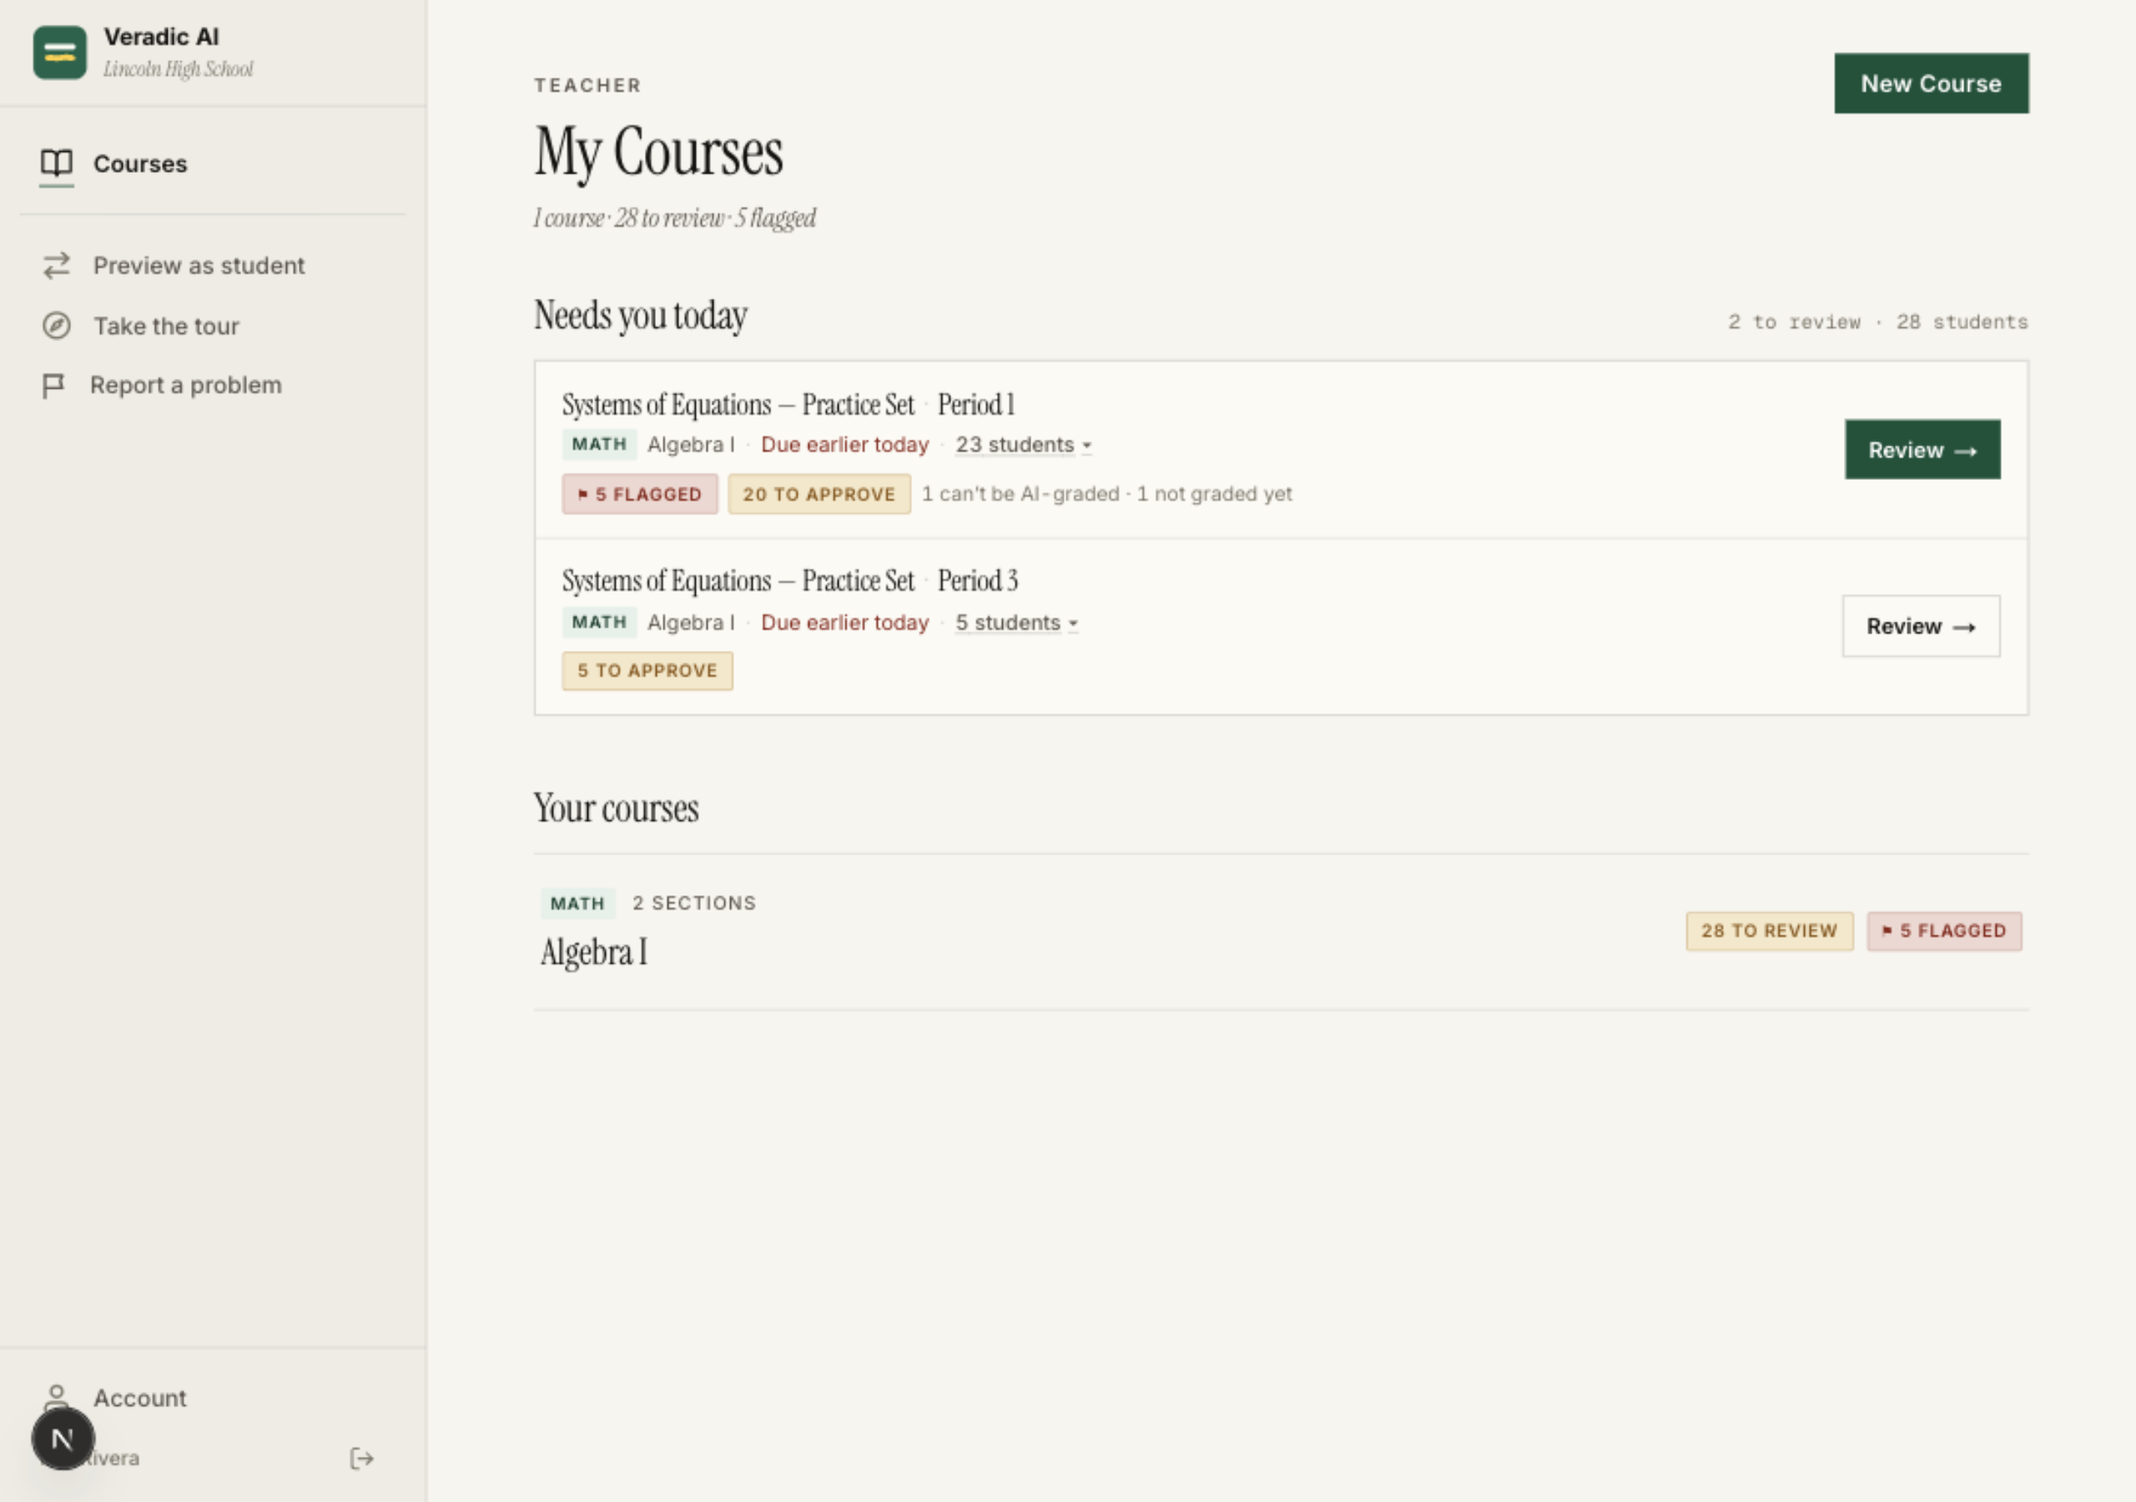
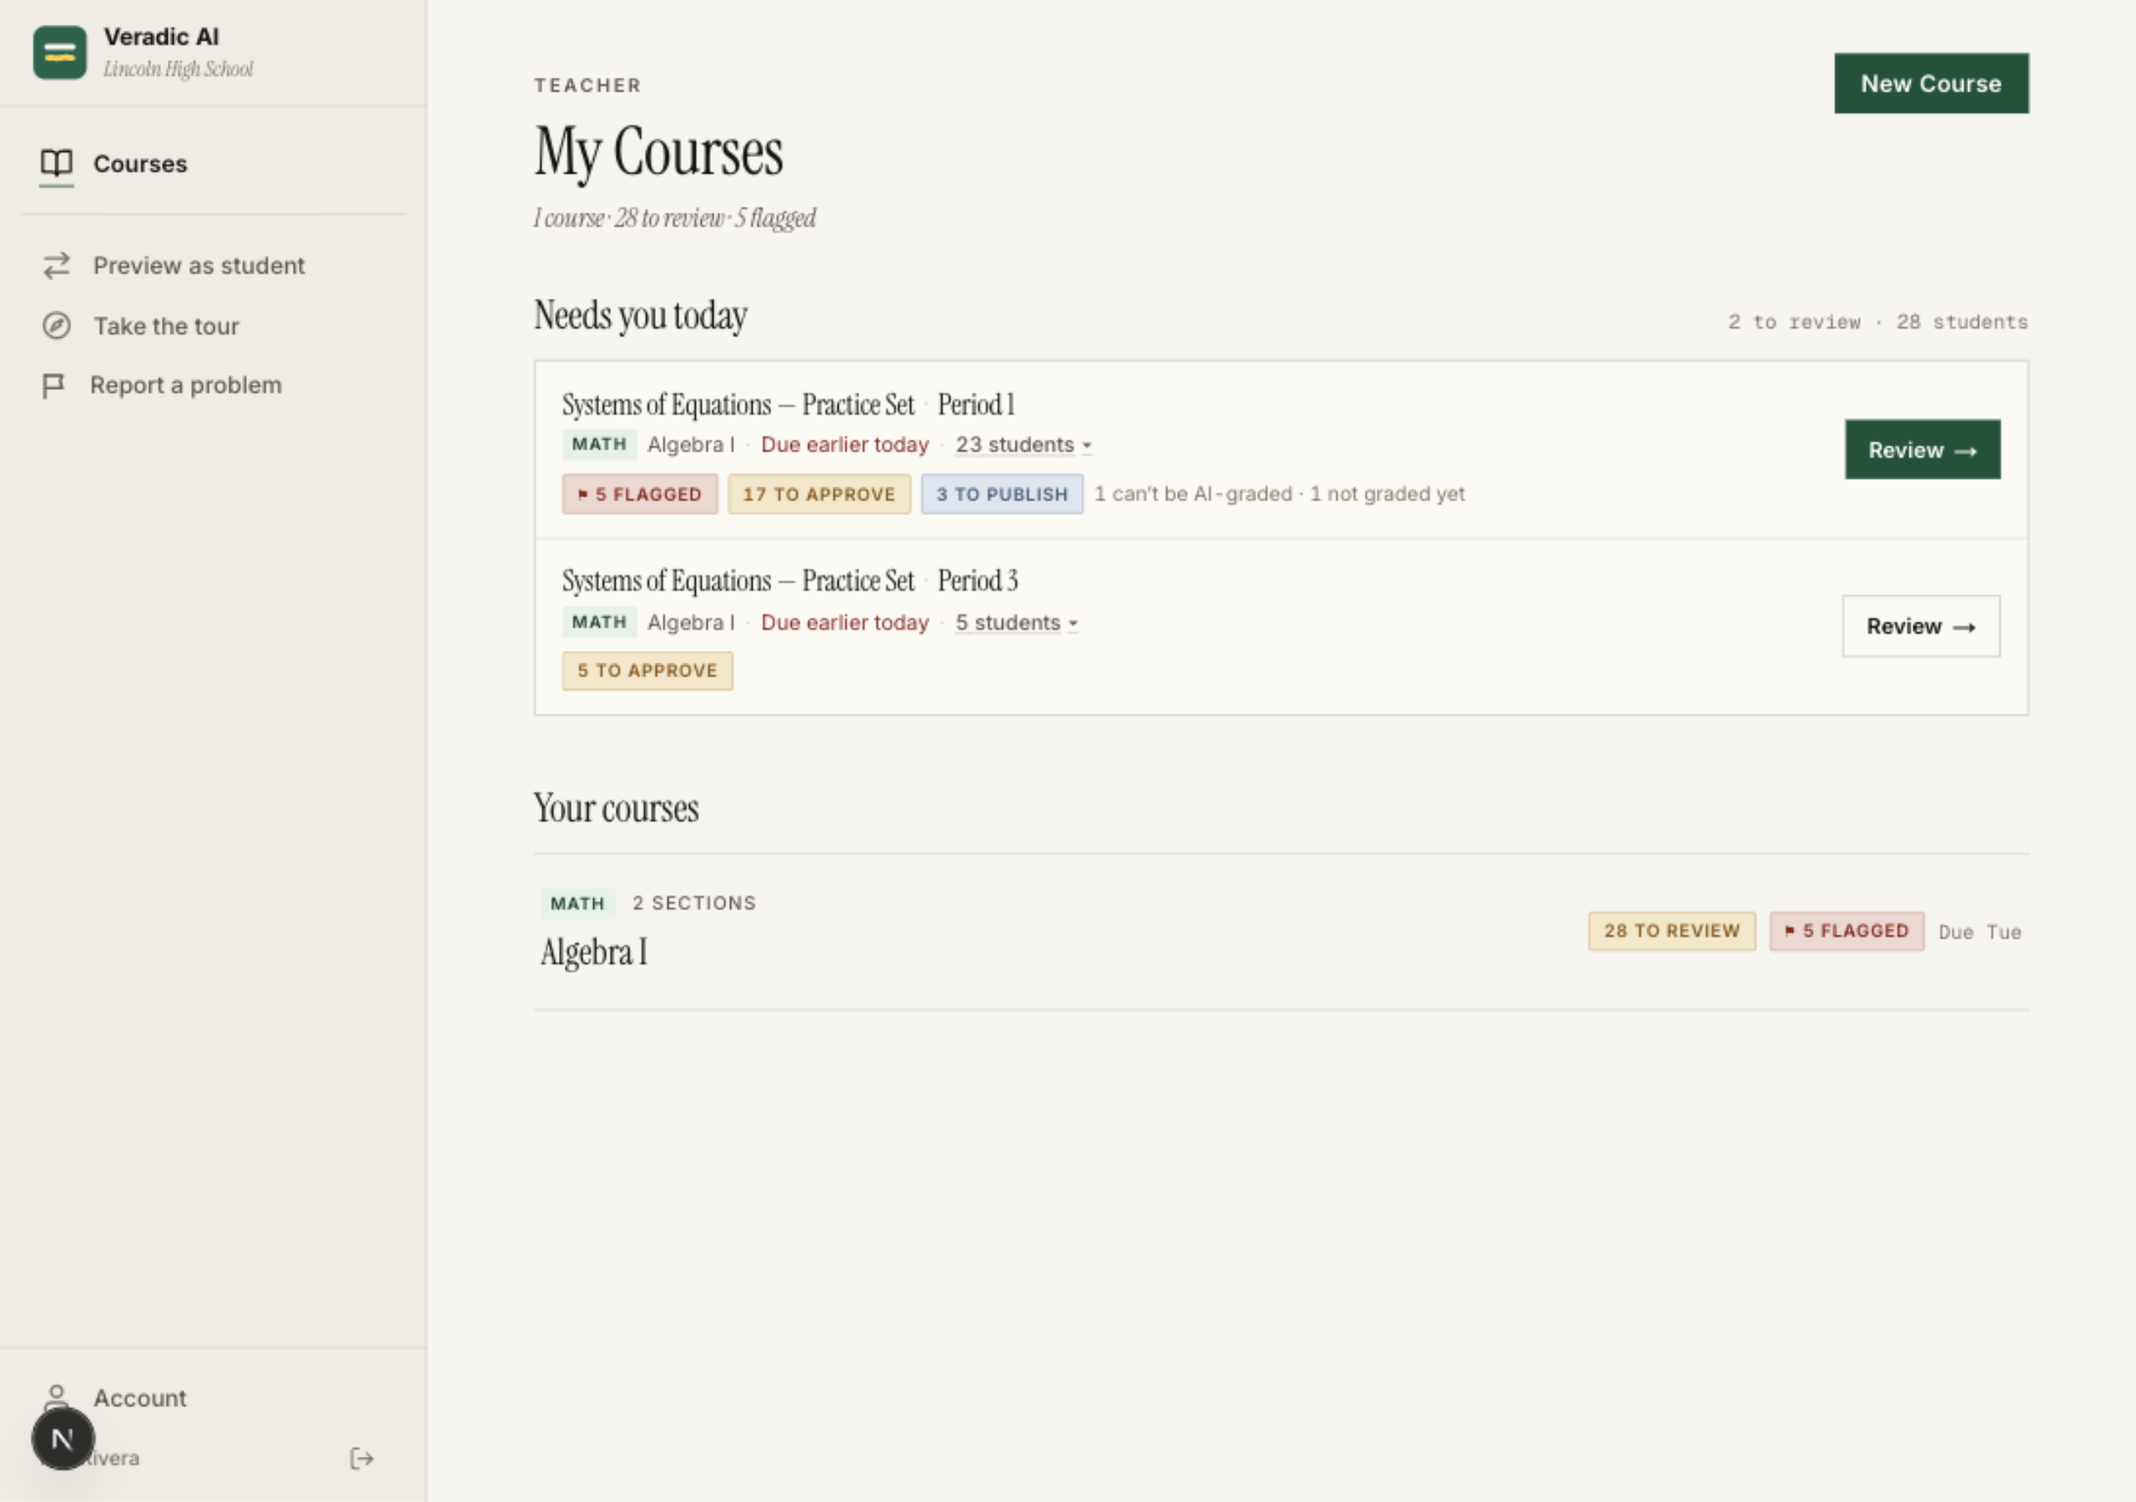
fix(home): split to-approve from to-publish, load only what the rule reads
From cold review:
- "N to approve" counted grades already approved (hand grades approve
  themselves; an edit keeps approval), which Approve can't clear. Rows
  now carry to_approve (no reviewed_at) and to_publish (approved, not
  released) separately.
- The query loaded every JSON column of three tables per row; it now
  loads only the columns ai_grade_block reads.
- The header counted submissions as students; it counts distinct
  students.

Changed region(s): [[0.7188, 0.5911, 0.9688, 0.6533], [0.4062, 0.3111, 0.6875, 0.3422]]

diff --git a/web/src/components/school/teacher/_pieces/needs-you-queue.tsx b/web/src/components/school/teacher/_pieces/needs-you-queue.tsx
@@ -10,6 +10,7 @@ import { SubjectChip } from "./subject-chip";
 import {
   groupNeedsYou,
   groupReviewHref,
+  studentCount,
   studentReviewHref,
   type NeedsYouGroup,
 } from "./needs-you-groups";
@@ -76,6 +77,7 @@ export function NeedsYouQueue() {
   const [expanded, setExpanded] = useState(false);
   const reduceMotion = useReducedMotion();
   const groups = useMemo(() => (items ? groupNeedsYou(items) : null), [items]);
+  const students = useMemo(() => (items ? studentCount(items) : 0), [items]);
 
   // Monotonic request id: only the newest attempt is allowed to write
   // state. Guards both the mount fetch and every Retry with one
@@ -134,8 +136,8 @@ export function NeedsYouQueue() {
         </h2>
         {groups !== null && groups.length > 0 && (
           <span className="font-mono text-[12px] tabular-nums text-text-muted">
-            {groups.length} to review · {items!.length} student
-            {items!.length === 1 ? "" : "s"}
+            {groups.length} to review · {students} student
+            {students === 1 ? "" : "s"}
           </span>
         )}
       </div>
@@ -200,7 +202,7 @@ function QueueList({
 
 /** The counts a row carries, in the review page's words. Flagged leads
  *  (integrity is what a teacher wants to see first), then the grades
- *  waiting on her; what she'll grade from the photo and work the AI
+ *  waiting on her (to approve, then approved and only to publish); what she'll grade from the photo and work the AI
  *  hasn't reached yet follow as quiet text — true, but not a call to act. */
 function GroupCounts({ group }: { group: NeedsYouGroup }) {
   const quiet = [
@@ -214,6 +216,9 @@ function GroupCounts({ group }: { group: NeedsYouGroup }) {
       )}
       {group.toApprove > 0 && (
         <StatusPill tone="amber" label={`${group.toApprove} to approve`} />
+      )}
+      {group.toPublish > 0 && (
+        <StatusPill tone="info" label={`${group.toPublish} to publish`} />
       )}
       {quiet.length > 0 && (
         <span className="text-[12px] text-text-muted">{quiet.join(" · ")}</span>

diff --git a/web/src/components/school/teacher/_pieces/needs-you-groups.ts b/web/src/components/school/teacher/_pieces/needs-you-groups.ts
@@ -15,12 +15,15 @@ export interface NeedsYouGroup {
   /** The submissions, in the server's most-urgent-first order. */
   items: NeedsAttentionItem[];
   /** Each count is the review page's own number for this section:
-   *  toApprove — its share of "Publish N grades" (graded, not released)
+   *  toApprove — not released and not yet approved (Approve ✓ is owed)
+   *  toPublish — not released, already approved (only Publish is owed);
+   *              with toApprove, its share of "Publish N grades"
    *  flagged   — its Flagged chip
    *  cantAiGrade — its "N can't be AI-graded" note
    *  ungraded  — the rest: turned in, no grade yet, nothing blocking the
    *              AI (waiting on the due date or the student's confirm). */
   toApprove: number;
+  toPublish: number;
   flagged: number;
   cantAiGrade: number;
   ungraded: number;
@@ -48,6 +51,7 @@ export function groupNeedsYou(items: NeedsAttentionItem[]): NeedsYouGroup[] {
         due_at: it.due_at,
         items: [],
         toApprove: 0,
+        toPublish: 0,
         flagged: 0,
         cantAiGrade: 0,
         ungraded: 0,
@@ -56,11 +60,18 @@ export function groupNeedsYou(items: NeedsAttentionItem[]): NeedsYouGroup[] {
     }
     g.items.push(it);
     if (it.to_approve) g.toApprove += 1;
+    if (it.to_publish) g.toPublish += 1;
     if (it.flagged) g.flagged += 1;
     if (it.cant_ai_grade) g.cantAiGrade += 1;
-    if (!it.to_approve && !it.flagged && !it.cant_ai_grade) g.ungraded += 1;
+    if (!it.to_approve && !it.to_publish && !it.flagged && !it.cant_ai_grade) g.ungraded += 1;
   }
   return [...groups.values()];
+}
+
+/** How many different students the queue holds — one student can have
+ *  work waiting on several homeworks. */
+export function studentCount(items: NeedsAttentionItem[]): number {
+  return new Set(items.map((i) => i.student_id)).size;
 }
 
 /** The section review page, opened on the group's most urgent student. */

diff --git a/web/src/components/school/teacher/_pieces/needs-you-groups.test.ts b/web/src/components/school/teacher/_pieces/needs-you-groups.test.ts
@@ -4,7 +4,7 @@
 import assert from "node:assert/strict";
 import { test } from "node:test";
 import type { NeedsAttentionItem } from "@/lib/api";
-import { groupNeedsYou, groupReviewHref } from "./needs-you-groups.ts";
+import { groupNeedsYou, groupReviewHref, studentCount } from "./needs-you-groups.ts";
 
 function item(o: Partial<NeedsAttentionItem>): NeedsAttentionItem {
   return {
@@ -21,6 +21,7 @@ function item(o: Partial<NeedsAttentionItem>): NeedsAttentionItem {
     due_at: null,
     reason: "ungraded",
     to_approve: false,
+    to_publish: false,
     flagged: false,
     cant_ai_grade: false,
     ...o,
@@ -51,10 +52,13 @@ test("counts mirror the review page; the remainder is ungraded", () => {
     item({ submission_id: "3", flagged: true, cant_ai_grade: true }),
     item({ submission_id: "4", flagged: true }),
     item({ submission_id: "5" }),
+    item({ submission_id: "6", to_publish: true }),
   ]);
   // A graded-and-flagged submission is in both counts, as on the review
   // page (it's in the Publish count and the Flagged chip).
   assert.equal(g.toApprove, 2);
+  // Approved but unreleased — only Publish left, never "to approve".
+  assert.equal(g.toPublish, 1);
   assert.equal(g.flagged, 3);
   assert.equal(g.cantAiGrade, 1);
   assert.equal(g.ungraded, 1);
@@ -73,4 +77,15 @@ test("Review opens on the group's first (most urgent) student", () => {
 
 test("empty queue → no rows", () => {
   assert.deepEqual(groupNeedsYou([]), []);
+});
+
+test("students are counted once across homeworks", () => {
+  assert.equal(
+    studentCount([
+      item({ submission_id: "1", student_id: "a" }),
+      item({ submission_id: "2", student_id: "a", assignment_id: "hw2" }),
+      item({ submission_id: "3", student_id: "b" }),
+    ]),
+    2,
+  );
 });

diff --git a/web/src/lib/api.ts b/web/src/lib/api.ts
@@ -1408,9 +1408,13 @@ export interface NeedsAttentionItem {
   section_name: string;
   due_at: string | null;
   reason: NeedsAttentionReason;
-  /** Graded and not yet released — counts toward the section's
-   *  "N to approve" (its share of the review page's Publish count). */
+  /** A grade not yet released that still wants Approve ✓ (an AI grade
+   *  nobody approved). */
   to_approve: boolean;
+  /** A grade not yet released that's already approved — only Publish is
+   *  left. With `to_approve`, the section's share of the review page's
+   *  "Publish N grades". */
+  to_publish: boolean;
   /** The review page's Flagged chip (same rule as `isFlagged`). */
   flagged: boolean;
   /** The review page's "can't be AI-graded" note (unreadable / no

diff --git a/api/routes/teacher_courses.py b/api/routes/teacher_courses.py
@@ -8,6 +8,7 @@ from pydantic import AfterValidator, BaseModel
 from sqlalchemy import Integer, and_, case, func, or_, select
 from sqlalchemy.dialects.postgresql import JSONB
 from sqlalchemy.ext.asyncio import AsyncSession
+from sqlalchemy.orm import load_only
 
 from api.core import photo_store
 from api.core.class_rubric import (
@@ -484,10 +485,26 @@ async def needs_attention(
             _to_review_case().label("to_review"),
             # The ORM rows feed `ai_grade_block` — the review page's own
             # rule for "can't be AI-graded" — so the two can't drift.
-            # `files` (the photos) is deferred on the model.
+            # Loaded with only the columns that rule reads (see options
+            # below), so the home page doesn't haul answer keys and
+            # rubric snapshots once per row.
             Submission,
             SubmissionGrade,
             Assignment,
+        )
+        .options(
+            load_only(
+                Submission.id, Submission.extraction, Submission.extraction_flagged_at,
+                Submission.submitted_at, Submission.extraction_confirmed_at,
+            ),
+            load_only(
+                SubmissionGrade.id, SubmissionGrade.final_score, SubmissionGrade.ai_score,
+                SubmissionGrade.ai_breakdown, SubmissionGrade.teacher_score,
+                SubmissionGrade.breakdown, SubmissionGrade.graded_at,
+                SubmissionGrade.reviewed_at, SubmissionGrade.published_final_score,
+                SubmissionGrade.published_breakdown, SubmissionGrade.ai_grading_status,
+            ),
+            load_only(Assignment.id, Assignment.ai_grading_enabled),
         )
         .select_from(Submission)
         .join(Assignment, Assignment.id == Submission.assignment_id)
@@ -529,6 +546,11 @@ async def needs_attention(
             # Belt-and-suspenders: the WHERE clause already excludes
             # clean-published rows, but never emit one if it slips through.
             continue
+        unreleased = bool(
+            r.to_review
+            and r.SubmissionGrade is not None
+            and r.SubmissionGrade.final_score is not None,
+        )
         items.append({
             "submission_id": str(r.submission_id),
             "student_id": str(r.student_id),
@@ -544,17 +566,20 @@ async def needs_attention(
             "reason": reason,
             # Per-row facts the home queue sums per (homework × section),
             # each the review page's own predicate for the same count:
-            #   flagged         — its Flagged chip (`flagged_case` ⇔ `isFlagged`)
-            #   to_approve      — a grade drafted and not yet released, the
-            #                     section's share of its "Publish N grades"
-            #   cant_ai_grade   — its "N can't be AI-graded" note
-            #                     (`ai_grade_block` unreadable / no_extraction)
+            #   flagged       — its Flagged chip (`flagged_case` ⇔ `isFlagged`)
+            #   to_approve    — a grade not yet released that still wants
+            #                   Approve ✓ (no `reviewed_at`: an AI grade
+            #                   nobody approved)
+            #   to_publish    — a grade not yet released that's already
+            #                   approved (hand grades approve themselves;
+            #                   an edit keeps the approval) — only Publish
+            #                   is left. The two together are the section's
+            #                   share of its "Publish N grades".
+            #   cant_ai_grade — its "N can't be AI-graded" note
+            #                   (`ai_grade_block` unreadable / no_extraction)
             "flagged": bool(r.flagged),
-            "to_approve": bool(
-                r.to_review
-                and r.SubmissionGrade is not None
-                and r.SubmissionGrade.final_score is not None,
-            ),
+            "to_approve": unreleased and r.SubmissionGrade.reviewed_at is None,
+            "to_publish": unreleased and r.SubmissionGrade.reviewed_at is not None,
             "cant_ai_grade": ai_grade_block(
                 r.Submission, r.SubmissionGrade, r.Assignment,
             ) in (BLOCK_UNREADABLE, BLOCK_NO_EXTRACTION),

diff --git a/tests/test_teacher_needs_attention.py b/tests/test_teacher_needs_attention.py
@@ -385,8 +385,10 @@ async def test_row_counts_match_review_page_predicates(client: AsyncClient) -> N
 
     reading = {"steps": [], "confidence": 0.93}
     now = datetime.now(UTC)
-    # Graded, not released → to approve.
+    # Graded, not released, never approved → to approve.
     drafted = await _add_submission(w, hw)
+    # Graded and approved (or hand-graded), not released → to publish only.
+    approved = await _add_submission(w, hw, student_id=await student())
     # Reading flagged by the student → flagged (never AI-graded).
     misread = await _add_submission(w, hw, student_id=await student())
     # AI skipped it as unreadable → flagged AND can't be AI-graded.
@@ -394,27 +396,31 @@ async def test_row_counts_match_review_page_predicates(client: AsyncClient) -> N
     # Read and confirmed, waiting on the grader → none of the three.
     waiting = await _add_submission(w, hw, student_id=await student())
     async with get_session_factory()() as s:
-        for sid in (drafted, misread, unreadable, waiting):
+        for sid in (drafted, approved, misread, unreadable, waiting):
             sub = await s.get(Submission, sid)
             sub.extraction = reading
             sub.submitted_at = now - timedelta(hours=2)
             sub.extraction_confirmed_at = now - timedelta(hours=1)
         (await s.get(Submission, misread)).extraction_flagged_at = now
         s.add(SubmissionGrade(submission_id=drafted, final_score=80.0, breakdown=[]))
+        s.add(SubmissionGrade(
+            submission_id=approved, final_score=90.0, breakdown=[], reviewed_at=now,
+        ))
         s.add(SubmissionGrade(submission_id=unreadable, ai_grading_status="skipped_unreadable"))
         await s.commit()
 
     by_sub = {i["submission_id"]: i for i in (await _get(w, client))["items"]}
     facts = {
-        k: (by_sub[str(v)]["to_approve"], by_sub[str(v)]["flagged"], by_sub[str(v)]["cant_ai_grade"])
+        k: tuple(by_sub[str(v)][f] for f in ("to_approve", "to_publish", "flagged", "cant_ai_grade"))
         for k, v in {
-            "drafted": drafted, "misread": misread,
+            "drafted": drafted, "approved": approved, "misread": misread,
             "unreadable": unreadable, "waiting": waiting,
         }.items()
     }
     assert facts == {
-        "drafted": (True, False, False),
-        "misread": (False, True, False),
-        "unreadable": (False, True, True),
-        "waiting": (False, False, False),
+        "drafted": (True, False, False, False),
+        "approved": (False, True, False, False),
+        "misread": (False, False, True, False),
+        "unreadable": (False, False, True, True),
+        "waiting": (False, False, False, False),
     }
